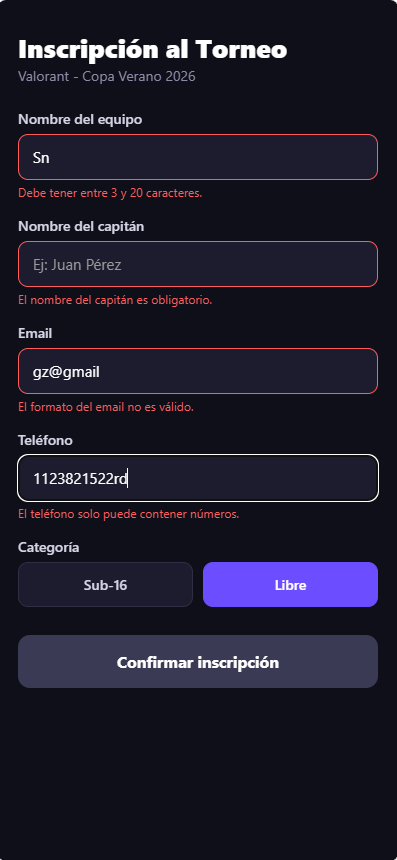
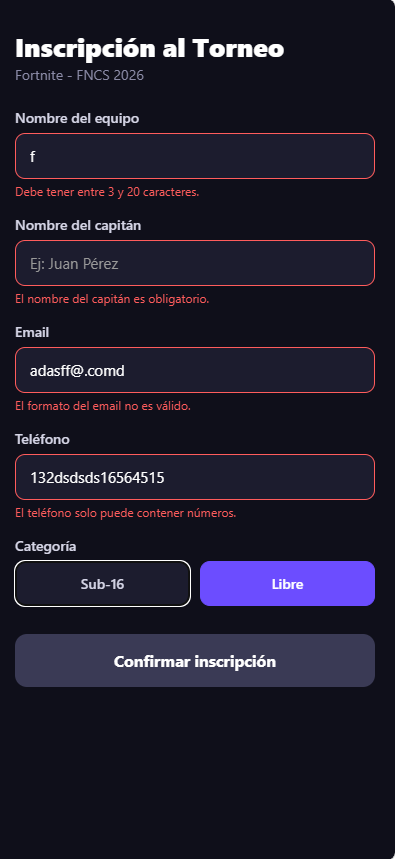
termiando

diff --git a/torneo-inscripcion/App.js b/torneo-inscripcion/App.js
@@ -133,7 +133,7 @@ export default function App() {
           keyboardShouldPersistTaps="handled"
         >
           <Text style={styles.titulo}>Inscripción al Torneo</Text>
-          <Text style={styles.subtitulo}>Valorant - Copa Verano 2026</Text>
+          <Text style={styles.subtitulo}>Fortnite - FNCS 2026</Text>
 
           <CampoFormulario
             label="Nombre del equipo"
